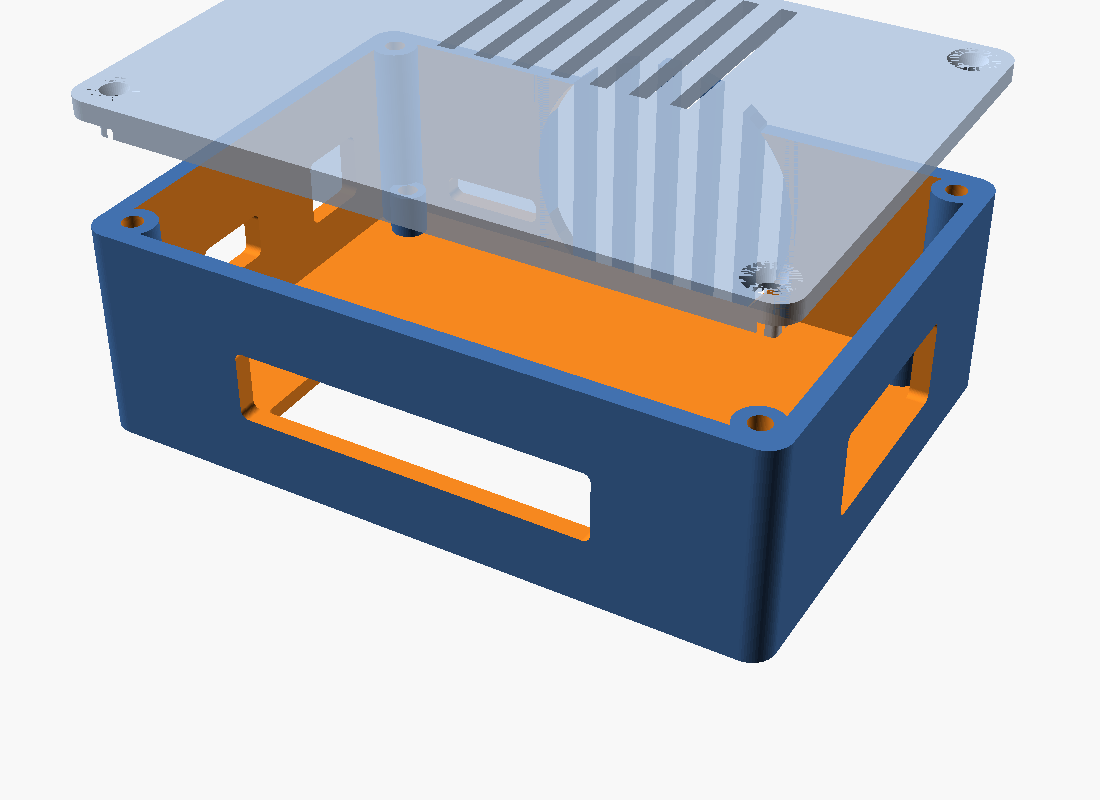
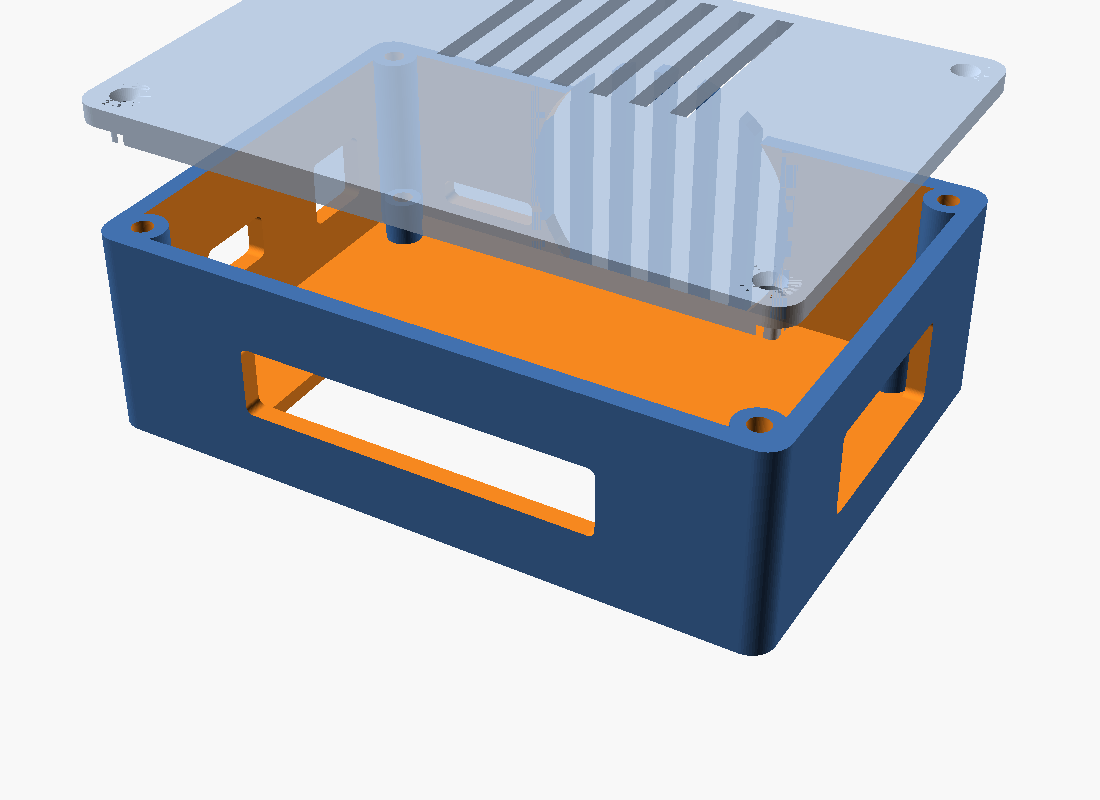
cad: medidas de la K10 por fotogrametría (PCB 79x53 mm)
Estimadas las cotas del PCB desde las fotos del reversing usando el MCU
GD32F303 LQFP48 (cuerpo 7.0 mm, verificado contando pines ~12/lado) como
regla de escala (0.0419 mm/px).

- Contorno PCB: 79 x 53 mm (alta confianza +-2 mm; aspecto 1.50 por ambas caras).
- Patron de agujeros ~72x44 mm c-a-c (confianza media +-2-3 mm) -> no fiar a ciegas,
  retencion por contorno + tapa; verificar con calibre.
- Altura de componentes: no medible desde cenital -> COMP_H provisional 17 mm.
- k10_enclosure.scad actualizado con las medidas; sigue watertight.
- reference/medidas-fotogrametria.md: metodo, referencias y confianza.

diff --git a/reference/medidas-fotogrametria.md b/reference/medidas-fotogrametria.md
@@ -1,0 +1,45 @@
+# Medidas de la placa K10 por fotogrametría
+
+Como no hay cotas publicadas del PCB de la K10, se estimaron a partir de las fotos cenitales del
+reversing usando un **componente de tamaño estándar como regla**. Método reproducible con
+`reference/images/` + OpenCV (scripts ad-hoc).
+
+## Método
+
+1. **Referencia de escala = encapsulado del MCU.** El chip se lee como **GD32F303 (GigaDevice, ARM)**.
+   Se contaron los pines por lado mediante perfil de intensidad: **~12 pines/lado → LQFP48**
+   (no LQFP64). El LQFP48 tiene **cuerpo de 7.0 mm** (lead-span 9.0 mm).
+2. Medido el cuerpo del MCU en la foto frontal: **≈167 px** → escala **0.0419 mm/px**
+   (cross-check con lead-span 9 mm ≈ 220 px → 0.0409 mm/px; coinciden en ~0.041).
+3. Contorno del PCB por perfiles de brillo (placa oscura sobre fondo claro), en ambas caras.
+
+## Resultados
+
+| Magnitud | Valor | Confianza | Notas |
+|----------|-------|-----------|-------|
+| **Contorno PCB** | **79 × 53 mm** | Alta (±2 mm) | Aspecto 1.50 coincide por las dos caras |
+| Grosor PCB | 1.6 mm | Asumido | estándar de industria |
+| Patrón de agujeros (4 esquinas) | ~72 × 44 mm centro-a-centro | Media (±2-3 mm) | esquinas inferiores ruidosas (QR/botón) |
+| Inset de agujeros desde borde | ~3.5 × 4.5 mm | Media | derivado del patrón |
+| **Altura de componentes** | **NO medible** | — | las fotos cenitales no dan altura; usar calibre |
+
+## Escala — verificación cruzada
+
+- Frontal: 1881 × 1258 px × 0.0419 = **78.8 × 52.7 mm** (aspecto 1.495).
+- Trasera: 1882 × 1191 px (aspecto 1.580; ligero escorzo vertical o sobresale el botón redondo).
+- Ambas dan ~79 mm de ancho → el contorno es robusto.
+
+## Implicación de diseño
+
+- El **contorno (79×53)** es fiable → la caja se dimensiona con seguridad.
+- El **patrón de agujeros** NO es lo bastante preciso para alinear standoffs a ciegas.
+  → La caja debe **retener el PCB por su contorno** (repisa perimetral + presión de la tapa),
+  usando los standoffs solo como apoyo aproximado. Verificar los 4 agujeros con calibre antes de
+  fijar tornillos de PCB.
+- **COMP_H (altura)**: medir con calibre el componente más alto (condensadores/conectores). Solo
+  afecta al alto de la caja, que lleva margen; valor provisional 17 mm.
+
+## Layout de puertos por borde (verificado en fotos)
+
+- Borde con 4 conectores de motor (X/Y/Z/E) | jack DC 12V + USB-C | mazo del cabezal (HE+TH+FAN) |
+  ranura microSD | botones del reverso (S3 Retract, S4 Feed, S5 ▲ Print, S6-S9 niveles).
